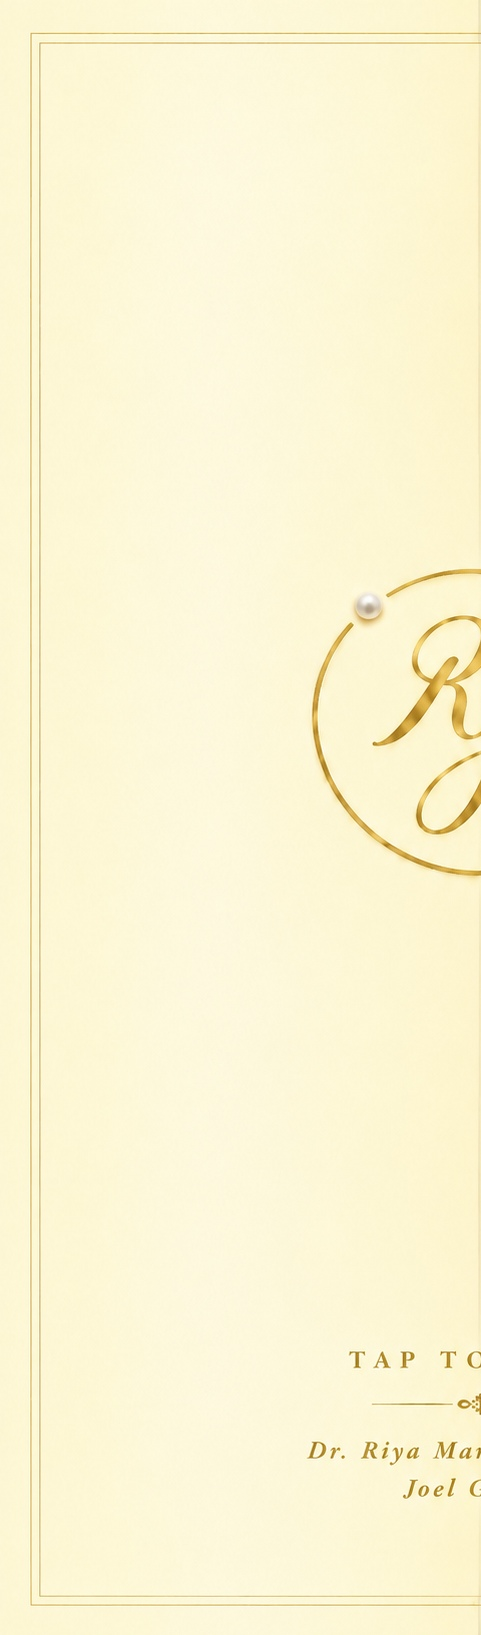
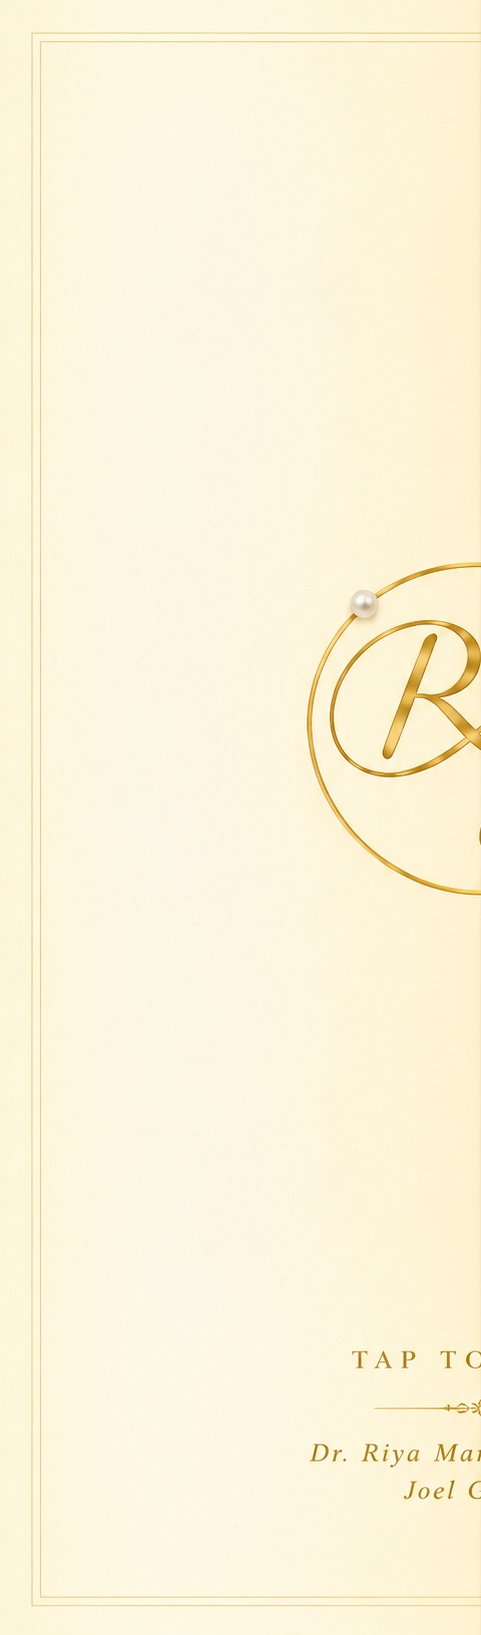
Update door opening animation to use click.png

diff --git a/index.html b/index.html
@@ -40,8 +40,10 @@
   <link
     href="https://fonts.googleapis.com/css2?family=Cormorant+Garamond:ital,wght@0,400;0,500;0,600;0,700;1,400;1,500&family=Great+Vibes&family=Pinyon+Script&family=Alex+Brush&family=Plus+Jakarta+Sans:wght@400;500;600&display=swap"
     rel="stylesheet" />
+  <link rel="preload" as="image" href="assets/door-left.jpg?v=7" />
+  <link rel="preload" as="image" href="assets/door-right.jpg?v=7" />
   <link rel="preload" as="image" href="assets/couple-embroidery.jpg?v=2" />
-  <link rel="stylesheet" href="styles.css?v=37" />
+  <link rel="stylesheet" href="styles.css?v=38" />
 </head>
 
 <body class="doors-locked">

diff --git a/styles.css b/styles.css
@@ -158,14 +158,14 @@ body.doors-locked #card-stage {
 .door-left {
   left: 0;
   transform-origin: left center;
-  background-image: url('assets/door-left.jpg?v=6');
+  background-image: url('assets/door-left.jpg?v=7');
   background-position: right center;
 }
 
 .door-right {
   right: 0;
   transform-origin: right center;
-  background-image: url('assets/door-right.jpg?v=6');
+  background-image: url('assets/door-right.jpg?v=7');
   background-position: left center;
 }
 
